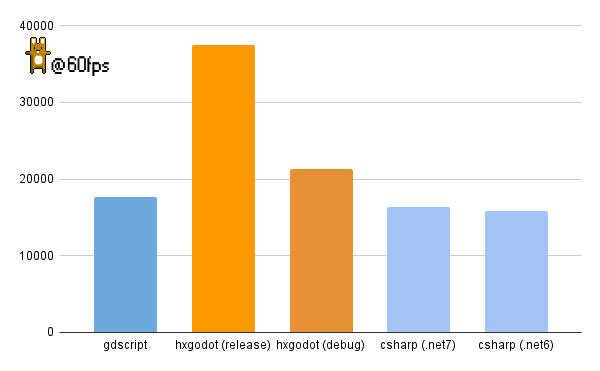
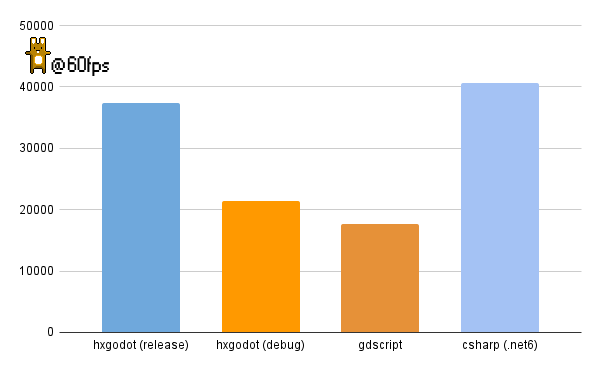
csharp: fix the for-loop and dont use bunnies.GetChildren()

diff --git a/scenes/CSharp.cs b/scenes/CSharp.cs
@@ -4,99 +4,101 @@ using System.Collections.Generic;
 
 public partial class CSharp : Node2D
 {
-    float gravity = 500.0f;
-    Texture2D bunny_texture = (Texture2D)ResourceLoader.Load("res://scenes/wabbit_alpha.png");
-    List<Vector2> speeds = new List<Vector2>();
-    Random random = new Random();
-    Label label = new Label();
-    Node2D bunnies = new Node2D();
-    Vector2 screen_size = new Vector2();
+	float gravity = 500.0f;
+	Texture2D bunny_texture = (Texture2D)ResourceLoader.Load("res://scenes/wabbit_alpha.png");
+	List<Vector2> speeds = new List<Vector2>();
+	Random random = new Random();
+	Label label = new Label();
+	List<Node2D> bunnies = new List<Node2D>();
+	Node2D bunnyRoot = new Node2D();
+	Vector2 screen_size = new Vector2();
 
-    // Called when the node enters the scene tree for the first time.
-    public override void _Ready()
-    {
-        this.AddChild(bunnies);
-        label.Position = new Vector2(0, 20);
-        this.AddChild(label);
-    }
+	// Called when the node enters the scene tree for the first time.
+	public override void _Ready()
+	{
+		label.Position = new Vector2(0, 20);
+		this.AddChild(bunnyRoot);
+		this.AddChild(label);
+	}
 
-    // Called every frame. 'delta' is the elapsed time since the previous frame.
-    public override void _Process(double delta)
-    {
-        screen_size = GetViewportRect().Size;
-        label.Text = "Bunnies: " + bunnies.GetChildCount();
+	// Called every frame. 'delta' is the elapsed time since the previous frame.
+	public override void _Process(double delta)
+	{
+		screen_size = GetViewportRect().Size;
+		label.Text = "Bunnies: " + bunnies.Count;
 
-        var bunnyChildren = bunnies.GetChildren();
-        for (var i = 0; i < bunnyChildren.Count; i++)
-        {
-            var bunny = (Sprite2D)bunnyChildren[i];
-            var position = bunny.Position;
-            var speed = speeds[i];
+		for (var i = 0; i < bunnies.Count; i++)
+		{
+			var bunny = (Sprite2D)bunnies[i];
+			var position = bunny.Position;
+			var speed = speeds[i];
 
-            position.X += speed.X * (float)delta;
-            position.Y += speed.Y * (float)delta;
+			position.X += speed.X * (float)delta;
+			position.Y += speed.Y * (float)delta;
 
-            speed.Y += gravity * (float)delta;
+			speed.Y += gravity * (float)delta;
 
-            if (position.X > screen_size.X)
-            {
-                speed.X *= -1;
-                position.X = screen_size.X;
-            }
+			if (position.X > screen_size.X)
+			{
+				speed.X *= -1;
+				position.X = screen_size.X;
+			}
 
-            if (position.X < 0)
-            {
-                speed.X *= -1;
-                position.X = 0;
-            }
+			if (position.X < 0)
+			{
+				speed.X *= -1;
+				position.X = 0;
+			}
 
-            if (position.Y > screen_size.Y)
-            {
-                position.Y = screen_size.Y;
-                if (random.NextDouble() > 0.5f)
-                {
-                    speed.Y = (random.Next() % 1100 + 50);
-                }
-                else
-                {
-                    speed.Y *= -0.85f;
-                }
-            }
+			if (position.Y > screen_size.Y)
+			{
+				position.Y = screen_size.Y;
+				if (random.NextDouble() > 0.5f)
+				{
+					speed.Y = (random.Next() % 1100 + 50);
+				}
+				else
+				{
+					speed.Y *= -0.85f;
+				}
+			}
 
-            if (position.Y < 0)
-            {
-                speed.Y = 0;
-                position.Y = 0;
-            }
+			if (position.Y < 0)
+			{
+				speed.Y = 0;
+				position.Y = 0;
+			}
 
-            bunny.Position = position;
-            speeds[i] = speed;
-        }
-    }
+			bunny.Position = position;
+			speeds[i] = speed;
+		}
+	}
 
-    public void add_bunny()
-    {
-        var bunny = new Sprite2D();
-        bunny.Texture = bunny_texture;
-        bunnies.AddChild(bunny);
-        bunny.Position = new Vector2(screen_size.X / 2, screen_size.Y / 2);
-        speeds.Add(new Vector2(random.Next() % 200 + 50, random.Next() % 200 + 50));
-    }
+	public void add_bunny()
+	{
+		var bunny = new Sprite2D();
+		bunny.Texture = bunny_texture;
+		bunnies.Add(bunny);
+		bunnyRoot.AddChild(bunny);
+		bunny.Position = new Vector2(screen_size.X / 2, screen_size.Y / 2);
+		speeds.Add(new Vector2(random.Next() % 200 + 50, random.Next() % 200 + 50));
+	}
 
-    public void remove_bunny()
-    {
-        var childCount = bunnies.GetChildCount();
-        if (childCount == 0) {
-            return;
-        }
+	public void remove_bunny()
+	{
+		var childCount = bunnies.Count;
+		if (childCount == 0) {
+			return;
+		}
 
-        var bunny = bunnies.GetChild(childCount - 1);
-        speeds.RemoveAt(childCount - 1);
-        bunnies.RemoveChild(bunny);
-    }
+		var bunny = bunnies[childCount - 1];
+		speeds.RemoveAt(childCount - 1);
+		bunnies.RemoveAt(childCount - 1);
+		bunnyRoot.RemoveChild(bunny);
+	}
 
-    public void finish()
-    {
-        EmitSignal("benchmark_finished", bunnies.GetChildCount());
-    }
+	public void finish()
+	{
+		EmitSignal("benchmark_finished", bunnies.Count);
+	}
 }
